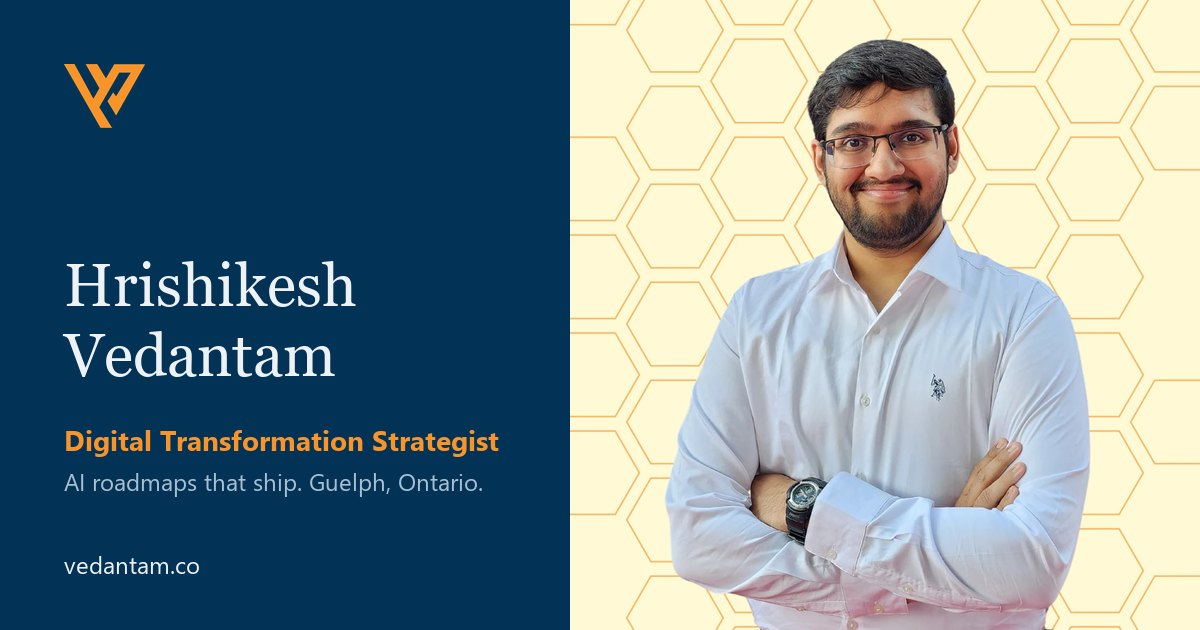
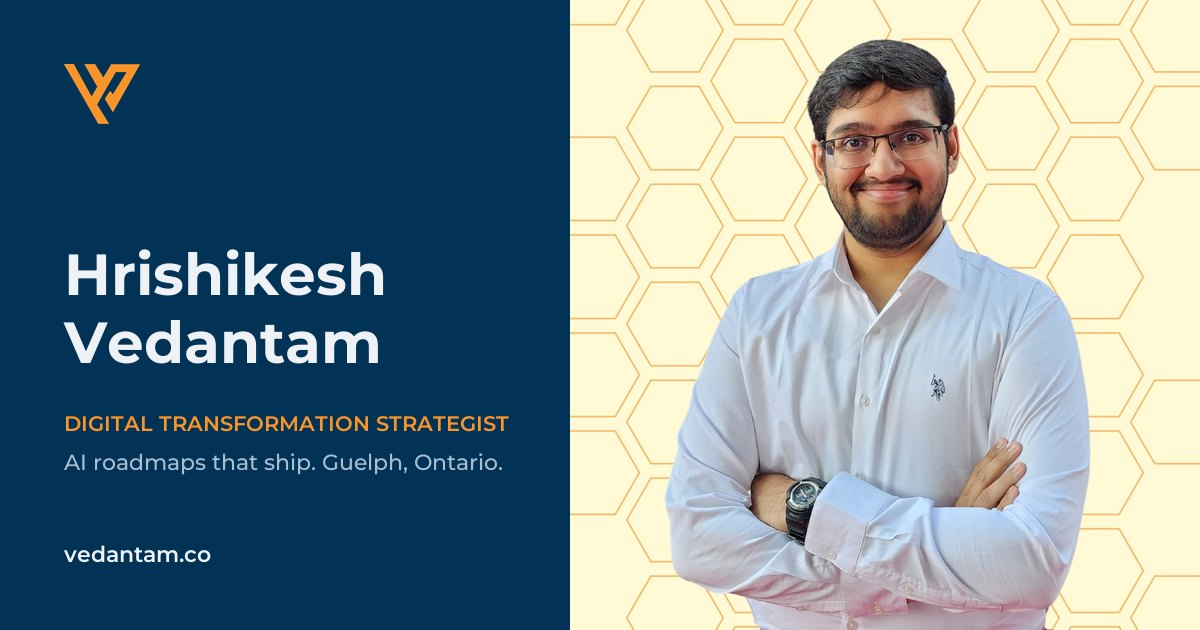
Switch to Montserrat and Inter; add Product Design minor
- Headings and labels in Montserrat, body and meta text in Inter;
  drop Fraunces and JetBrains Mono, and the numbered section labels.
- Regenerate the share card in Montserrat.
- Education: Computer Engineering with a minor in Product Design, and
  coursework spanning hardware and software (VLSI, HPC, computer
  vision, digital image processing, HCI).

diff --git a/assets/style.css b/assets/style.css
@@ -22,9 +22,8 @@
   --feature-fg: #EEF2F6;
   --shadow: 0 1px 0 rgba(11, 30, 49, 0.04), 0 8px 24px -12px rgba(11, 30, 49, 0.14);
 
-  --f-display: "Fraunces", Georgia, "Times New Roman", serif;
+  --f-display: "Montserrat", system-ui, -apple-system, "Segoe UI", Roboto, sans-serif;
   --f-body: "Inter", system-ui, -apple-system, "Segoe UI", Roboto, sans-serif;
-  --f-mono: "JetBrains Mono", ui-monospace, "SFMono-Regular", Consolas, monospace;
 
   --wrap: 1120px;
   --gutter: clamp(16px, 4vw, 32px);
@@ -151,28 +150,27 @@ ul, ol, dl, dd { margin: 0; padding: 0; list-style: none; }
 .hero-grid { display: grid; grid-template-columns: 1.1fr 0.9fr; gap: clamp(24px, 4vw, 56px); align-items: center; }
 .eyebrow {
   display: inline-flex; align-items: center; gap: 10px;
-  font: 500 13px/1.4 var(--f-mono); color: var(--muted); letter-spacing: 0.01em;
+  font: 500 14px/1.4 var(--f-body); color: var(--muted);
   margin-bottom: 22px;
 }
 .dot { width: 8px; height: 8px; border-radius: 50%; background: var(--brand); box-shadow: 0 0 0 4px var(--brand-soft); flex: none; }
 h1 {
   font-family: var(--f-display);
-  font-weight: 500;
-  font-size: clamp(44px, 7vw, 86px);
-  line-height: 0.98;
-  letter-spacing: -0.035em;
-  font-variation-settings: "opsz" 144;
+  font-weight: 700;
+  font-size: clamp(40px, 6.4vw, 78px);
+  line-height: 1.02;
+  letter-spacing: -0.03em;
   margin-bottom: 24px;
 }
 .lede {
   font-family: var(--f-display);
-  font-size: clamp(22px, 2.5vw, 30px);
-  line-height: 1.28;
-  letter-spacing: -0.015em;
+  font-weight: 500;
+  font-size: clamp(20px, 2.2vw, 26px);
+  line-height: 1.38;
+  letter-spacing: -0.01em;
   color: var(--ink);
   max-width: 30ch;
   margin-bottom: 18px;
-  font-variation-settings: "opsz" 48;
 }
 .hero-sub { color: var(--muted); max-width: 54ch; margin-bottom: 30px; }
 .cta-row { display: flex; flex-wrap: wrap; gap: 10px; }
@@ -211,20 +209,19 @@ h1 {
 .stat { padding: 20px 16px 4px 0; display: flex; flex-direction: column-reverse; justify-content: flex-end; gap: 6px; }
 .stat + .stat { padding-left: 16px; border-left: 1px solid var(--line); }
 .stat dd {
-  margin: 0; font-family: var(--f-display); font-size: clamp(26px, 2.6vw, 34px);
-  line-height: 1; letter-spacing: -0.02em; font-variation-settings: "opsz" 72;
+  margin: 0; font-family: var(--f-display); font-weight: 700; font-size: clamp(24px, 2.4vw, 32px);
+  line-height: 1; letter-spacing: -0.02em;
 }
-.stat dt { font: 400 12px/1.45 var(--f-mono); color: var(--muted); }
+.stat dt { font: 400 13.5px/1.45 var(--f-body); color: var(--muted); }
 
 /* ---------- Sections ---------- */
 .section { padding: clamp(64px, 9vw, 120px) 0; border-top: 1px solid var(--line); }
 .section-tint { background: var(--bg-tint); }
 .section-head { margin-bottom: clamp(28px, 4vw, 48px); max-width: 800px; }
-.kicker { font: 500 12.5px/1.4 var(--f-mono); color: var(--accent); letter-spacing: 0.04em; text-transform: uppercase; margin-bottom: 14px; }
+.kicker { font: 600 12.5px/1.4 var(--f-display); color: var(--accent); letter-spacing: 0.1em; text-transform: uppercase; margin-bottom: 14px; }
 h2 {
-  font-family: var(--f-display); font-weight: 500;
-  font-size: clamp(28px, 3.6vw, 44px); line-height: 1.12; letter-spacing: -0.025em;
-  font-variation-settings: "opsz" 96;
+  font-family: var(--f-display); font-weight: 700;
+  font-size: clamp(26px, 3.2vw, 40px); line-height: 1.18; letter-spacing: -0.02em;
   text-wrap: balance;
 }
 .h2-sm { font-size: clamp(22px, 2.4vw, 28px); }
@@ -248,7 +245,7 @@ h2 {
   content: ""; position: absolute; left: 0; top: 0.55em; width: 8px; height: 8px;
   background: var(--brand); clip-path: polygon(50% 0, 100% 25%, 100% 75%, 50% 100%, 0 75%, 0 25%);
 }
-.now-meta { margin: 18px 0 0; padding-top: 14px; border-top: 1px solid var(--line); font: 400 12.5px/1.5 var(--f-mono); color: var(--muted); }
+.now-meta { margin: 18px 0 0; padding-top: 14px; border-top: 1px solid var(--line); font: 400 13px/1.5 var(--f-body); color: var(--muted); }
 
 /* Services */
 .services { display: grid; grid-template-columns: repeat(4, 1fr); gap: 16px; }
@@ -260,20 +257,20 @@ h2 {
   width: 40px; height: 40px; padding: 8px; margin-bottom: 18px; border-radius: 10px;
   background: var(--brand-soft); fill: none; stroke: var(--accent); stroke-width: 1.7; stroke-linecap: round; stroke-linejoin: round;
 }
-.service h3 { font-family: var(--f-display); font-size: 22px; letter-spacing: -0.015em; line-height: 1.2; margin-bottom: 10px; }
+.service h3 { font-family: var(--f-display); font-weight: 600; font-size: 19px; letter-spacing: -0.01em; line-height: 1.2; margin-bottom: 10px; }
 .service p { font-size: 15px; color: var(--ink-2); }
 .proof {
   margin: auto 0 0 !important; padding-top: 14px; border-top: 1px dashed var(--line-strong);
-  font: 400 12.5px/1.5 var(--f-mono); color: var(--muted) !important;
+  font: 500 13.5px/1.5 var(--f-body); color: var(--muted) !important;
 }
 
 /* Case studies */
 .cases { border-top: 1px solid var(--line); }
 .case { display: grid; grid-template-columns: 280px 1fr; gap: clamp(20px, 3vw, 40px); padding: 32px 0; border-bottom: 1px solid var(--line); }
-.case-tag { font: 500 12px/1.4 var(--f-mono); color: var(--accent); text-transform: uppercase; letter-spacing: .03em; margin-bottom: 10px; }
-.case-head h3 { font-family: var(--f-display); font-size: clamp(22px, 2.3vw, 28px); line-height: 1.18; letter-spacing: -0.02em; }
+.case-tag { font: 600 12px/1.4 var(--f-display); color: var(--accent); text-transform: uppercase; letter-spacing: .08em; margin-bottom: 10px; }
+.case-head h3 { font-family: var(--f-display); font-weight: 600; font-size: clamp(20px, 2vw, 24px); line-height: 1.25; letter-spacing: -0.015em; }
 .case-body { display: grid; grid-template-columns: repeat(3, 1fr); gap: 20px; }
-.case-body dt { font: 500 11.5px/1 var(--f-mono); color: var(--muted); text-transform: uppercase; letter-spacing: .05em; margin-bottom: 10px; }
+.case-body dt { font: 600 11.5px/1 var(--f-display); color: var(--muted); text-transform: uppercase; letter-spacing: .1em; margin-bottom: 10px; }
 .case-body dd { font-size: 15px; line-height: 1.6; color: var(--ink-2); }
 .case-outcome { background: var(--outcome-bg); border-radius: 10px; padding: 14px 16px; margin-top: -14px; }
 .case-outcome dt { color: var(--accent); }
@@ -282,7 +279,7 @@ h2 {
 .built { margin-top: clamp(40px, 5vw, 64px); }
 .built-list { display: grid; grid-template-columns: repeat(3, 1fr); gap: 1px; background: var(--line); border: 1px solid var(--line); border-radius: var(--radius); overflow: hidden; }
 .built-list li { background: var(--surface); padding: 18px 20px; display: flex; flex-direction: column; gap: 4px; }
-.built-list strong { font-family: var(--f-display); font-weight: 500; font-size: 18px; letter-spacing: -0.01em; }
+.built-list strong { font-family: var(--f-display); font-weight: 600; font-size: 16px; letter-spacing: -0.005em; }
 .built-list span { font-size: 14px; color: var(--muted); line-height: 1.55; }
 
 /* Principles */
@@ -290,17 +287,17 @@ h2 {
 .principles li { counter-increment: p; padding-top: 18px; border-top: 2px solid var(--ink); }
 .principles li::before {
   content: counter(p, decimal-leading-zero);
-  display: block; font: 500 12px/1 var(--f-mono); color: var(--accent); margin-bottom: 14px;
+  display: block; font: 700 13px/1 var(--f-display); color: var(--accent); margin-bottom: 14px;
 }
-.principles h3 { font-family: var(--f-display); font-size: 21px; line-height: 1.2; letter-spacing: -0.015em; margin-bottom: 10px; }
+.principles h3 { font-family: var(--f-display); font-weight: 600; font-size: 18px; line-height: 1.3; letter-spacing: -0.01em; margin-bottom: 10px; }
 .principles p { font-size: 15px; color: var(--ink-2); margin: 0; }
 
 /* Timeline */
 .timeline { border-top: 1px solid var(--line); }
 .job { display: grid; grid-template-columns: 180px 1fr; gap: 24px; padding: 28px 0; border-bottom: 1px solid var(--line); }
-.job-when { font: 400 13px/1.6 var(--f-mono); color: var(--muted); padding-top: 4px; }
+.job-when { font: 500 14px/1.6 var(--f-body); font-variant-numeric: tabular-nums; color: var(--muted); padding-top: 4px; }
 .job-when time { color: var(--ink); }
-.job h3 { font-family: var(--f-display); font-size: clamp(20px, 2vw, 24px); letter-spacing: -0.015em; line-height: 1.3; }
+.job h3 { font-family: var(--f-display); font-weight: 600; font-size: clamp(18px, 1.8vw, 21px); letter-spacing: -0.01em; line-height: 1.35; }
 .job .at { display: inline; color: var(--accent); }
 .job .at::before { content: " · "; color: var(--muted); }
 .job-where { font-size: 14px; color: var(--muted); margin: 4px 0 12px; }
@@ -321,53 +318,57 @@ h2 {
   content: ""; position: absolute; right: -36px; bottom: -40px; width: 190px; height: 150px;
   background: url("img/logo-mark.png") center / contain no-repeat; opacity: .16;
 }
-.talk-label { font: 500 12px/1 var(--f-mono); letter-spacing: .04em; text-transform: uppercase; color: var(--brand); margin-bottom: 18px; }
-.talk h3 { font-family: var(--f-display); font-size: clamp(26px, 3vw, 36px); line-height: 1.15; letter-spacing: -0.02em; margin-bottom: 16px; max-width: 16ch; position: relative; z-index: 1; }
+.talk-label { font: 600 12px/1 var(--f-display); letter-spacing: .1em; text-transform: uppercase; color: var(--brand); margin-bottom: 18px; }
+.talk h3 { font-family: var(--f-display); font-weight: 700; font-size: clamp(22px, 2.6vw, 30px); line-height: 1.22; letter-spacing: -0.02em; margin-bottom: 16px; max-width: 16ch; position: relative; z-index: 1; }
 .talk p { opacity: .85; margin: 0; max-width: 40ch; position: relative; z-index: 1; font-size: 15.5px; }
 .honors li { display: grid; grid-template-columns: 150px 1fr; gap: 16px; padding: 16px 0; border-bottom: 1px solid var(--line); }
 .honors li:first-child { padding-top: 4px; }
-.honor-k { font: 500 12px/1.6 var(--f-mono); color: var(--accent); text-transform: uppercase; letter-spacing: .03em; padding-top: 2px; }
+.honor-k { font: 600 12px/1.6 var(--f-display); color: var(--accent); text-transform: uppercase; letter-spacing: .08em; padding-top: 2px; }
 .honor-v { color: var(--ink-2); font-size: 15.5px; }
 
 /* Skills */
 .skills { display: grid; grid-template-columns: repeat(4, 1fr); gap: 1px; background: var(--line); border: 1px solid var(--line); border-radius: var(--radius); overflow: hidden; }
 .skill { background: var(--bg); padding: 22px; }
-.skill h3 { font: 500 13px/1.3 var(--f-mono); color: var(--accent); text-transform: uppercase; letter-spacing: .03em; margin-bottom: 10px; }
+.skill h3 { font: 600 12.5px/1.3 var(--f-display); color: var(--accent); text-transform: uppercase; letter-spacing: .08em; margin-bottom: 10px; }
 .skill p { font-size: 14.5px; line-height: 1.7; color: var(--ink-2); margin: 0; }
 
 /* Education */
 .edu { max-width: 760px; }
 .edu li { padding: 18px 0; border-top: 1px solid var(--line); }
-.edu-when { font: 400 12.5px/1 var(--f-mono); color: var(--muted); margin-bottom: 8px; }
-.edu h3 { font-family: var(--f-display); font-size: 22px; letter-spacing: -0.015em; margin-bottom: 4px; }
+.edu-when { font: 500 13.5px/1 var(--f-body); color: var(--muted); margin-bottom: 8px; }
+.edu h3 { font-family: var(--f-display); font-weight: 600; font-size: 20px; letter-spacing: -0.01em; margin-bottom: 6px; }
 .edu li p:not(.edu-when) { color: var(--ink-2); font-size: 15.5px; margin-bottom: 8px; }
 .edu li p:last-child { margin-bottom: 0; }
+.edu-tags { display: flex; flex-wrap: wrap; gap: 6px; margin-top: 4px; }
+.edu .edu-tags li {
+  padding: 6px 11px; border: 1px solid var(--line); border-radius: 999px; background: var(--surface);
+  font: 500 13px/1 var(--f-body); color: var(--ink-2);
+}
 .edu-spec {
   display: inline-flex; flex-wrap: wrap; align-items: center; gap: 10px;
   padding: 8px 14px 8px 8px; border-radius: 999px; background: var(--brand-soft);
   font-weight: 600; color: var(--ink) !important; margin: 4px 0 12px !important;
 }
 .edu-spec span {
-  font: 500 11px/1 var(--f-mono); text-transform: uppercase; letter-spacing: .05em;
+  font: 600 10.5px/1 var(--f-display); text-transform: uppercase; letter-spacing: .1em;
   background: var(--btn-bg); color: var(--btn-fg); padding: 6px 9px; border-radius: 999px;
 }
 
 /* Contact */
 .contact-grid { display: grid; grid-template-columns: 1fr 300px; gap: clamp(32px, 5vw, 72px); align-items: center; }
 .contact-h {
-  font-size: clamp(48px, 9vw, 112px); line-height: 0.95; letter-spacing: -0.04em;
-  font-variation-settings: "opsz" 144; margin-bottom: 20px;
+  font-size: clamp(44px, 8vw, 96px); line-height: 1; letter-spacing: -0.035em; margin-bottom: 20px;
 }
 .contact-lede { max-width: 56ch; color: var(--ink-2); font-size: 18px; margin-bottom: 28px; }
 .contact-row { display: flex; flex-wrap: wrap; align-items: center; gap: 12px; margin-bottom: 24px; }
 .email {
-  font-family: var(--f-display); font-size: clamp(20px, 3.2vw, 34px); letter-spacing: -0.015em;
+  font-family: var(--f-display); font-weight: 600; font-size: clamp(18px, 2.8vw, 30px); letter-spacing: -0.015em;
   text-decoration: underline; text-decoration-color: var(--brand); text-decoration-thickness: 2px; text-underline-offset: 6px;
   overflow-wrap: anywhere;
 }
 .email:hover { text-decoration-thickness: 4px; }
 .copy {
-  font: 500 13px/1 var(--f-mono); color: var(--ink); background: transparent;
+  font: 500 14px/1 var(--f-body); color: var(--ink); background: transparent;
   border: 1px solid var(--line-strong); border-radius: 999px; padding: 9px 14px; cursor: pointer;
 }
 .copy:hover { background: var(--brand-soft); }
@@ -381,7 +382,7 @@ h2 {
 
 /* Footer */
 .footer { border-top: 1px solid var(--line); padding: 28px 0 40px; }
-.footer-inner { display: flex; flex-wrap: wrap; justify-content: space-between; align-items: center; gap: 8px 24px; font: 400 12.5px/1.5 var(--f-mono); color: var(--muted); }
+.footer-inner { display: flex; flex-wrap: wrap; justify-content: space-between; align-items: center; gap: 8px 24px; font: 400 13.5px/1.5 var(--f-body); color: var(--muted); }
 .footer-brand { display: inline-flex; align-items: center; gap: 10px; }
 .footer-brand img { height: 16px; width: auto; }
 

diff --git a/index.html b/index.html
@@ -26,7 +26,7 @@
   <link rel="preload" as="image" href="assets/img/portrait-960.webp" imagesrcset="assets/img/portrait-480.webp 480w, assets/img/portrait-960.webp 960w" imagesizes="(max-width: 820px) 240px, 440px">
   <link rel="preconnect" href="https://fonts.googleapis.com">
   <link rel="preconnect" href="https://fonts.gstatic.com" crossorigin>
-  <link href="https://fonts.googleapis.com/css2?family=Fraunces:opsz,wght@9..144,400;9..144,500;9..144,600&family=Inter:wght@400;500;600&family=JetBrains+Mono:wght@400;500&display=swap" rel="stylesheet">
+  <link href="https://fonts.googleapis.com/css2?family=Montserrat:wght@500;600;700&family=Inter:wght@400;500;600&display=swap" rel="stylesheet">
   <link rel="stylesheet" href="assets/style.css">
 
   <script>
@@ -122,14 +122,14 @@
     <section class="section" id="about" aria-labelledby="about-h">
       <div class="wrap two-col">
         <header class="section-head">
-          <p class="kicker">01 &mdash; About</p>
+          <p class="kicker">About</p>
           <h2 id="about-h">I work in the gap between the roadmap and the people expected to use it.</h2>
         </header>
         <div class="prose reveal">
           <p>That gap is where most transformation stalls, so that&rsquo;s where I spend my time. I go on-site, map how operations actually run, rank where technology will pay off, and stay through rollout until the new way of working sticks.</p>
           <p>At <a href="https://www.meridiandatalabs.com" target="_blank" rel="noopener">Meridian Data Labs</a>, that meant bringing AI and industrial IoT to the Indian Navy, DRDO, HAL, GRSE and the Indian Coast Guard, in facilities with strict MoD compliance and no internet. Building the platform was the smaller part of the job. Getting it trusted and used was the larger part. For a utility that came to us with an open brief, it meant mapping their operations into 15 AI use cases and anchoring the roadmap on one high-value win instead of fifteen pilots.</p>
           <p>Before that I took <strong>Optiply</strong>, a Dutch inventory and purchasing SaaS, into India with no team, no customers and no playbook. Two years later we had 15 people and a US$100k ARR pipeline, and I&rsquo;d owned the ERP integrations through go-live myself.</p>
-          <p>I trained as a computer engineer and I still build: agents, automations, integrations and infrastructure. That keeps my roadmaps honest. I&rsquo;m now completing the <strong>MBET at the University of Waterloo, specializing in AI &amp; Digital Transformation</strong>, and I&rsquo;m a teaching assistant for its Digital Leadership &amp; Transformation course.</p>
+          <p>I trained as a computer engineer across hardware and software, with a minor in product design, and I still build: agents, automations, integrations and infrastructure. That keeps my roadmaps honest. I&rsquo;m now completing the <strong>MBET at the University of Waterloo, specializing in AI &amp; Digital Transformation</strong>, and I&rsquo;m a teaching assistant for its Digital Leadership &amp; Transformation course.</p>
         </div>
         <aside class="now reveal" aria-label="Currently">
           <p class="kicker">Right now</p>
@@ -148,7 +148,7 @@
     <section class="section section-tint" id="services" aria-labelledby="svc-h">
       <div class="wrap">
         <header class="section-head">
-          <p class="kicker">02 &mdash; What I do</p>
+          <p class="kicker">What I do</p>
           <h2 id="svc-h">From the first discovery workshop to the tenth deployment.</h2>
         </header>
         <div class="services">
@@ -184,7 +184,7 @@
     <section class="section" id="work" aria-labelledby="work-h">
       <div class="wrap">
         <header class="section-head">
-          <p class="kicker">03 &mdash; Selected work</p>
+          <p class="kicker">Selected work</p>
           <h2 id="work-h">A few engagements, from brief to outcome.</h2>
         </header>
 
@@ -268,7 +268,7 @@
     <section class="section section-tint" aria-labelledby="how-h">
       <div class="wrap">
         <header class="section-head">
-          <p class="kicker">04 &mdash; How I work</p>
+          <p class="kicker">How I work</p>
           <h2 id="how-h">Habits I picked up deploying where nobody could help.</h2>
         </header>
         <ol class="principles">
@@ -300,7 +300,7 @@
     <section class="section" id="experience" aria-labelledby="exp-h">
       <div class="wrap">
         <header class="section-head">
-          <p class="kicker">05 &mdash; Experience</p>
+          <p class="kicker">Experience</p>
           <h2 id="exp-h">Where I&rsquo;ve worked.</h2>
         </header>
 
@@ -414,7 +414,7 @@
     <section class="section section-tint" id="speaking" aria-labelledby="speak-h">
       <div class="wrap">
         <header class="section-head">
-          <p class="kicker">06 &mdash; Speaking &amp; recognition</p>
+          <p class="kicker">Speaking &amp; recognition</p>
           <h2 id="speak-h">On stage, on camera, and in print.</h2>
         </header>
 
@@ -459,7 +459,7 @@
     <section class="section" id="toolkit" aria-labelledby="tool-h">
       <div class="wrap">
         <header class="section-head">
-          <p class="kicker">07 &mdash; Toolkit</p>
+          <p class="kicker">Toolkit</p>
           <h2 id="tool-h">Strategy first, with the technical depth to back it.</h2>
         </header>
         <div class="skills">
@@ -503,7 +503,7 @@
     <section class="section" id="education" aria-labelledby="edu-h">
       <div class="wrap">
         <header class="section-head">
-          <p class="kicker">08 &mdash; Education</p>
+          <p class="kicker">Education</p>
           <h2 id="edu-h">An engineer, now studying how organizations change.</h2>
         </header>
         <ul class="edu">
@@ -515,9 +515,13 @@
             <p>Coursework includes Essential Accounting for Entrepreneurs (BET 605) and the corporate finance side of digital transformation. Teaching Assistant for BET 405, Digital Leadership &amp; Transformation.</p>
           </li>
           <li class="reveal">
-            <p class="edu-when">2017 &ndash; 2022</p>
+            <p class="edu-when">2017 &ndash; 2022 &middot; Chennai, India</p>
             <h3>IIITDM Kancheepuram</h3>
-            <p>Dual degree (B.Tech + M.Tech), Computer Engineering. Chennai, India.</p>
+            <p>Dual degree (B.Tech + M.Tech) in Computer Engineering, with a minor in Product Design.</p>
+            <p>Coursework covered both sides of the stack, from VLSI and high-performance computing to computer vision, digital image processing and human-computer interaction. That mix is why I&rsquo;m comfortable with both the hardware and the software side of a business.</p>
+            <ul class="edu-tags" aria-label="Selected coursework">
+              <li>VLSI</li><li>High-performance computing</li><li>Computer vision</li><li>Digital image processing</li><li>Human-computer interaction</li><li>Product design</li>
+            </ul>
           </li>
           <li class="reveal">
             <p class="edu-when">Until 2017</p>
@@ -532,7 +536,7 @@
     <section class="section contact" id="contact" aria-labelledby="contact-h">
       <div class="wrap contact-grid">
         <div>
-          <p class="kicker">09 &mdash; Contact</p>
+          <p class="kicker">Contact</p>
           <h2 id="contact-h" class="contact-h">Let&rsquo;s talk.</h2>
           <p class="contact-lede">If you&rsquo;re working out where AI fits in your organization, or you need someone to take a roadmap all the way to adoption, I&rsquo;d like to hear about it.</p>
           <div class="contact-row">

diff --git a/404.html b/404.html
@@ -9,7 +9,7 @@
   <link rel="icon" href="/favicon-32.png" type="image/png" sizes="32x32">
   <link rel="preconnect" href="https://fonts.googleapis.com">
   <link rel="preconnect" href="https://fonts.gstatic.com" crossorigin>
-  <link href="https://fonts.googleapis.com/css2?family=Fraunces:opsz,wght@9..144,500&family=Inter:wght@400;500&family=JetBrains+Mono:wght@500&display=swap" rel="stylesheet">
+  <link href="https://fonts.googleapis.com/css2?family=Montserrat:wght@500;600;700&family=Inter:wght@400;500;600&display=swap" rel="stylesheet">
   <link rel="stylesheet" href="/assets/style.css">
   <script>
     try {
@@ -22,7 +22,7 @@
   <main class="section" style="border-top:0;min-height:100vh;display:flex;align-items:center">
     <div class="wrap">
       <img src="/assets/img/logo-mark.png" alt="" width="60" height="48" style="height:48px;width:auto;margin-bottom:28px">
-      <p class="kicker">404 &mdash; No signal</p>
+      <p class="kicker">Error 404</p>
       <h1>This page isn&rsquo;t on the network.</h1>
       <p class="hero-sub">The link may be old, or the page never existed.</p>
       <a class="btn btn-primary" href="/">Back to vedantam.co</a>
